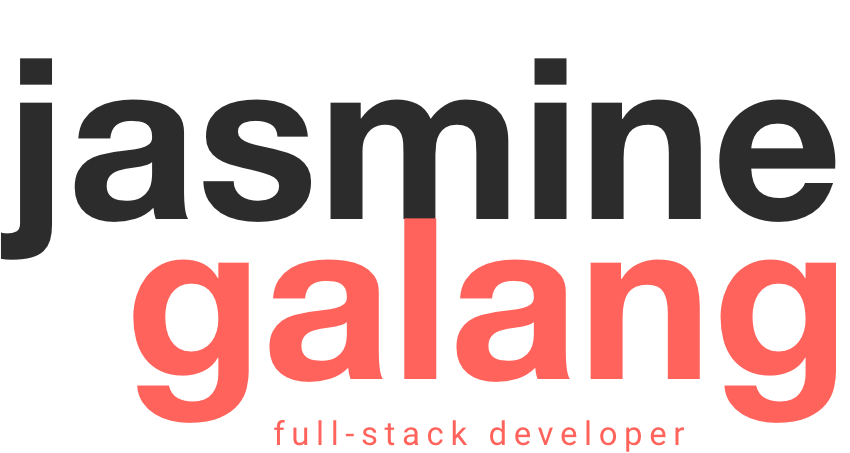
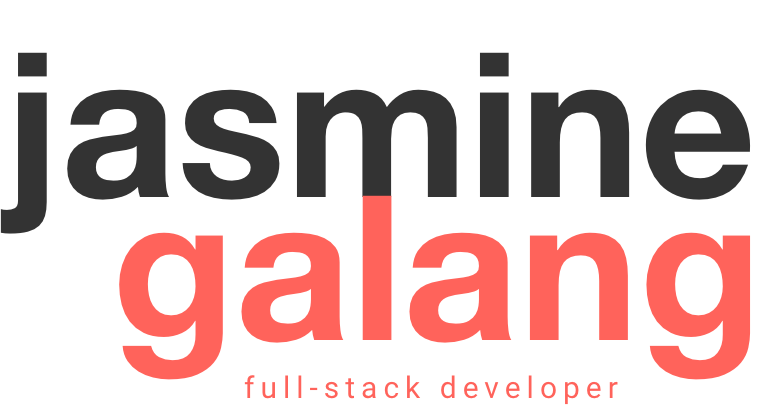
Implemented project section and project gallery

diff --git a/src/_components/Projects/Projects.style.js b/src/_components/Projects/Projects.style.js
@@ -1,0 +1,71 @@
+import styled from "styled-components";
+import {
+  blackRegular,
+  blackLight,
+  headingStyle,
+  buttonDark,
+  buttonLight
+} from "../../_styles/variables.style";
+
+export const ProjectContainer = styled.section`
+  border: 2px solid pink;
+
+  h1 {
+    margin-bottom: 3rem;
+    ${headingStyle}
+  }
+
+  p {
+    font-size: 2.5rem;
+    color: ${blackRegular};
+    letter-spacing: 0.05rem;
+    line-height: 3.5rem;
+  }
+`;
+
+export const ProjectGallery = styled.div`
+  border: 2px solid lightgreen;
+  margin: 2rem 0;
+`;
+
+export const Project = styled.section`
+  border: 2px solid orange;
+
+  .project-description {
+    h3 {
+      font-size: 1.8rem;
+      letter-spacing: 0.2rem;
+      line-height: 2.5rem;
+      color: ${blackLight};
+    }
+
+    h2 {
+      margin-bottom: 3rem;
+      font-size: 3.5rem;
+      font-weight: 700;
+      color: ${blackRegular};
+    }
+
+    p {
+      color: ${blackLight};
+    }
+  }
+
+  .btn-group {
+    font-size: 1.4rem;
+    text-transform: uppercase;
+    letter-spacing: 0.3rem;
+
+    a {
+      transition: 150ms ease-in;
+    }
+
+    .app-btn {
+      ${buttonDark}
+    }
+
+    .src-btn {
+      ${buttonLight}
+    }
+  }
+`;

diff --git a/src/_components/Projects/StaticProjectGallery.js b/src/_components/Projects/StaticProjectGallery.js
@@ -3,10 +3,37 @@
 // will not break
 import React from "react";
 
+import { ProjectGallery, Project } from "./Projects.style";
+
 const StaticProjectGallery = () => {
   return (
     <ProjectGallery>
-      <h1>Static Project Gallery</h1>
+      <Project>
+        <div className="project-description">
+          <h3>TEAM</h3>
+          <h2>LearnLocker</h2>
+          <p>
+            A web application that allows users to keep and organize resources
+            from the internet in one place.
+          </p>
+
+          <div className="btn-group">
+            <a className="app-btn" href="https://learnedadev.netlify.com/">
+              view
+            </a>
+            <a className="src-btn" href="https://github.com/learneda">
+              source
+            </a>
+          </div>
+        </div>
+
+        <div className="project-thumbnail">
+          <img
+            src={require("../../_assets/img/project-learnlocker.png")}
+            alt="learnlocker website"
+          />
+        </div>
+      </Project>
     </ProjectGallery>
   );
 };

diff --git a/src/_styles/variables.style.js b/src/_styles/variables.style.js
@@ -1,6 +1,40 @@
 export const redRegular = "#ff635b";
 export const redLight = "#ff9c96";
 export const redDark = "#ff2c1f";
-export const blackRegular = "#2c2c2c";
+export const blackRegular = "#333";
 export const blackLight = "#707070";
 export const whiteRegular = "#fff";
+
+export const headingStyle = `
+font-size: 5rem;
+font-weight: 700;
+color: ${redRegular};
+text-transform: uppercase;
+`;
+
+export const buttonLight = `
+border: 2px solid ${redRegular};
+border-radius: 3rem;
+padding: 1.5rem 2.5rem;
+background-color: ${whiteRegular};
+color: ${redRegular};
+
+&:hover {
+  border-color: ${redLight};
+  color: ${redLight};
+}
+`;
+
+export const buttonDark = `
+border: 2px solid ${redRegular};
+border-radius: 3rem;
+padding: 1.5rem 2.5rem;
+background-color: ${redRegular};
+color: ${whiteRegular};
+
+&:hover {
+  border-color: ${redRegular};
+  background-color: ${redLight};
+  color: ${redRegular};
+}
+`;

diff --git a/src/_components/About/About.style.js b/src/_components/About/About.style.js
@@ -3,7 +3,8 @@ import { flex } from "../../_styles/mixins.style";
 import {
   redRegular,
   blackRegular,
-  blackLight
+  blackLight,
+  headingStyle
 } from "../../_styles/variables.style";
 
 export const AboutContainer = styled.section`
@@ -14,15 +15,11 @@ export const AboutContainer = styled.section`
 `;
 
 export const AboutHeadline = styled.div`
-  border: 2px solid pink;
   width: 50%;
 
   h1 {
     margin-bottom: 4rem;
-    font-size: 5rem;
-    font-weight: 700;
-    color: ${redRegular};
-    text-transform: uppercase;
+    ${headingStyle}
   }
 
   p {
@@ -55,12 +52,11 @@ export const AboutHeadline = styled.div`
 `;
 
 export const AboutImage = styled.div`
-  border: 2px solid lightgreen;
   width: 50%;
   text-align: right;
 
   img {
-    width: 80%;
+    width: 100%;
     height: auto;
   }
 `;

diff --git a/src/_components/Projects/Projects.js b/src/_components/Projects/Projects.js
@@ -1,10 +1,27 @@
 import React from "react";
+import StaticProjectGallery from "./StaticProjectGallery";
+
+import { ProjectContainer } from "./Projects.style";
 
 const Projects = () => {
   return (
-    <div>
-      <h1>Projects</h1>
-    </div>
+    <ProjectContainer id="projects">
+      <h1>Projects.</h1>
+      <p>
+        Here are a few selection of some of my work as a web developer. You can
+        view my other small projects{" "}
+        <a
+          href="https://github.com/jsmnglng"
+          target="_blank"
+          rel="noopener noreferrer"
+        >
+          here
+        </a>
+        .
+      </p>
+
+      <StaticProjectGallery />
+    </ProjectContainer>
   );
 };
 

diff --git a/src/_components/Navbar/Navbar.style.js b/src/_components/Navbar/Navbar.style.js
@@ -4,7 +4,8 @@ import {
   blackLight,
   redRegular,
   redLight,
-  whiteRegular
+  whiteRegular,
+  buttonLight
 } from "../../_styles/variables.style";
 
 export const NavContainer = styled.div`
@@ -61,15 +62,7 @@ export const NavMenu = styled.nav`
 
     li:last-child {
       a {
-        border: 2px solid ${redRegular};
-        border-radius: 3rem;
-        padding: 1.5rem 2.5rem;
-        color: ${redRegular};
-
-        &:hover {
-          border-color: ${redLight};
-          color: ${redLight};
-        }
+        ${buttonLight}
       }
     }
   }

diff --git a/src/_components/About/About.js b/src/_components/About/About.js
@@ -6,11 +6,11 @@ const About = () => {
     <AboutContainer id="about">
       <AboutHeadline>
         <h1>Hello World.</h1>
-        <p class="main-headline">
+        <p className="main-headline">
           I'm Jasmine Galang and I'm a full-stack developer who is always
           creating and learning awesome stuff.
         </p>
-        <p class="secondary-headline">
+        <p className="secondary-headline">
           Studying web development with computer science at{" "}
           <a
             href="https://lambdaschool.com"

diff --git a/src/_components/Hero/Hero.style.js b/src/_components/Hero/Hero.style.js
@@ -10,7 +10,7 @@ export const HeroContainer = styled.section`
     text-align: center;
 
     img {
-      width: 50%;
+      width: 60%;
       height: auto;
     }
   }
